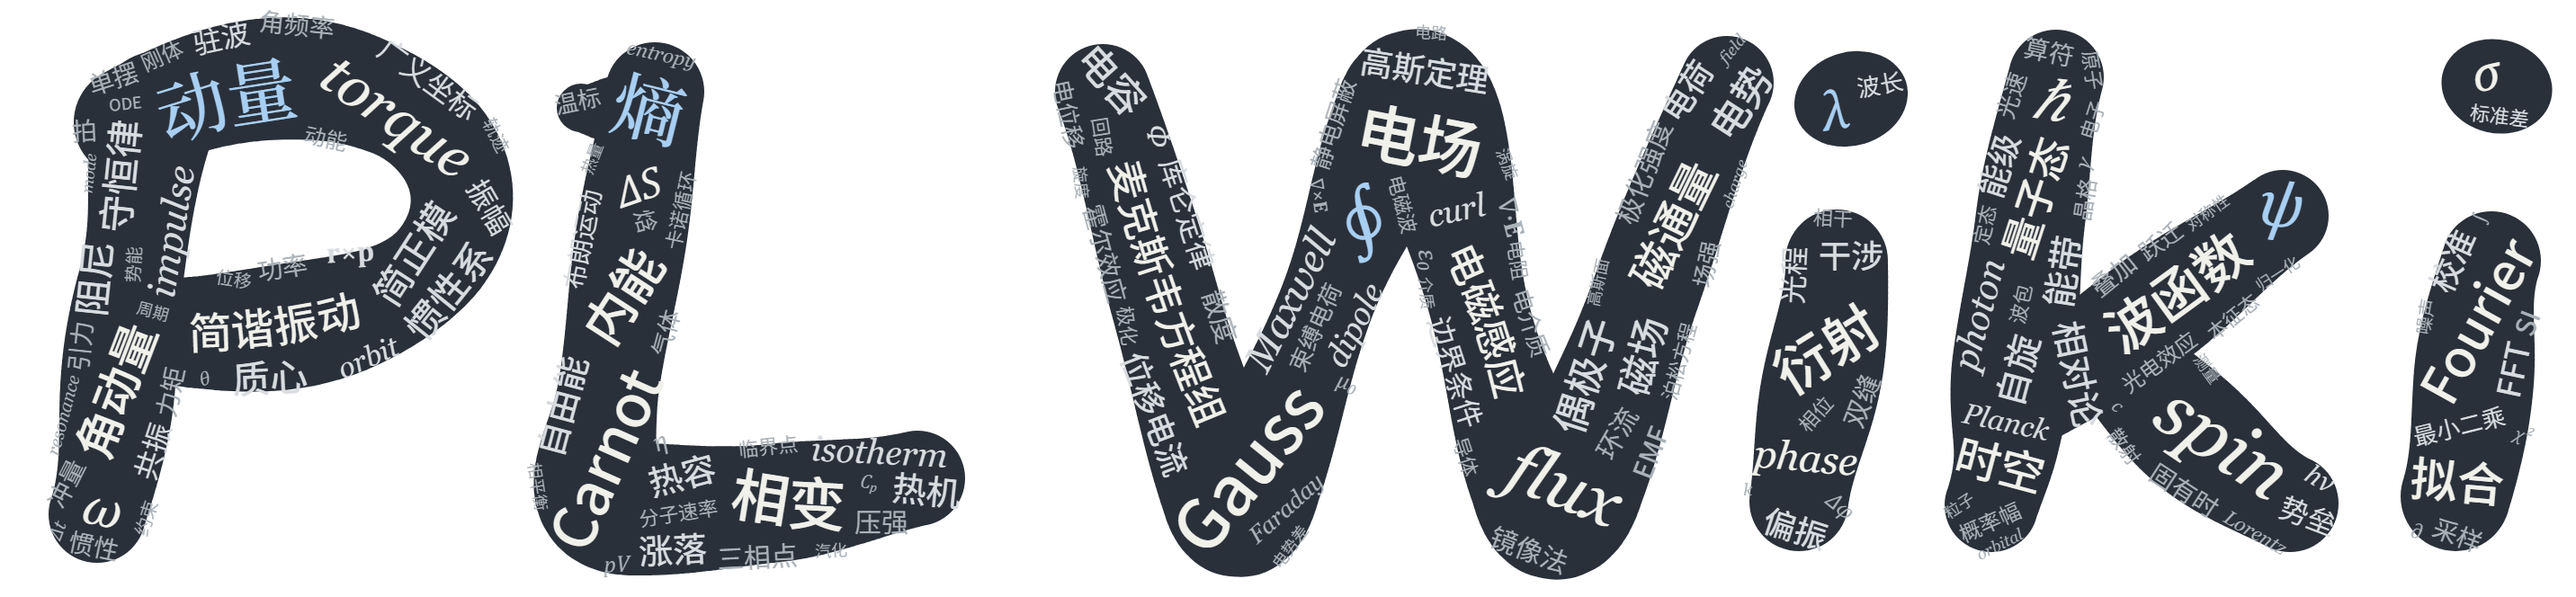
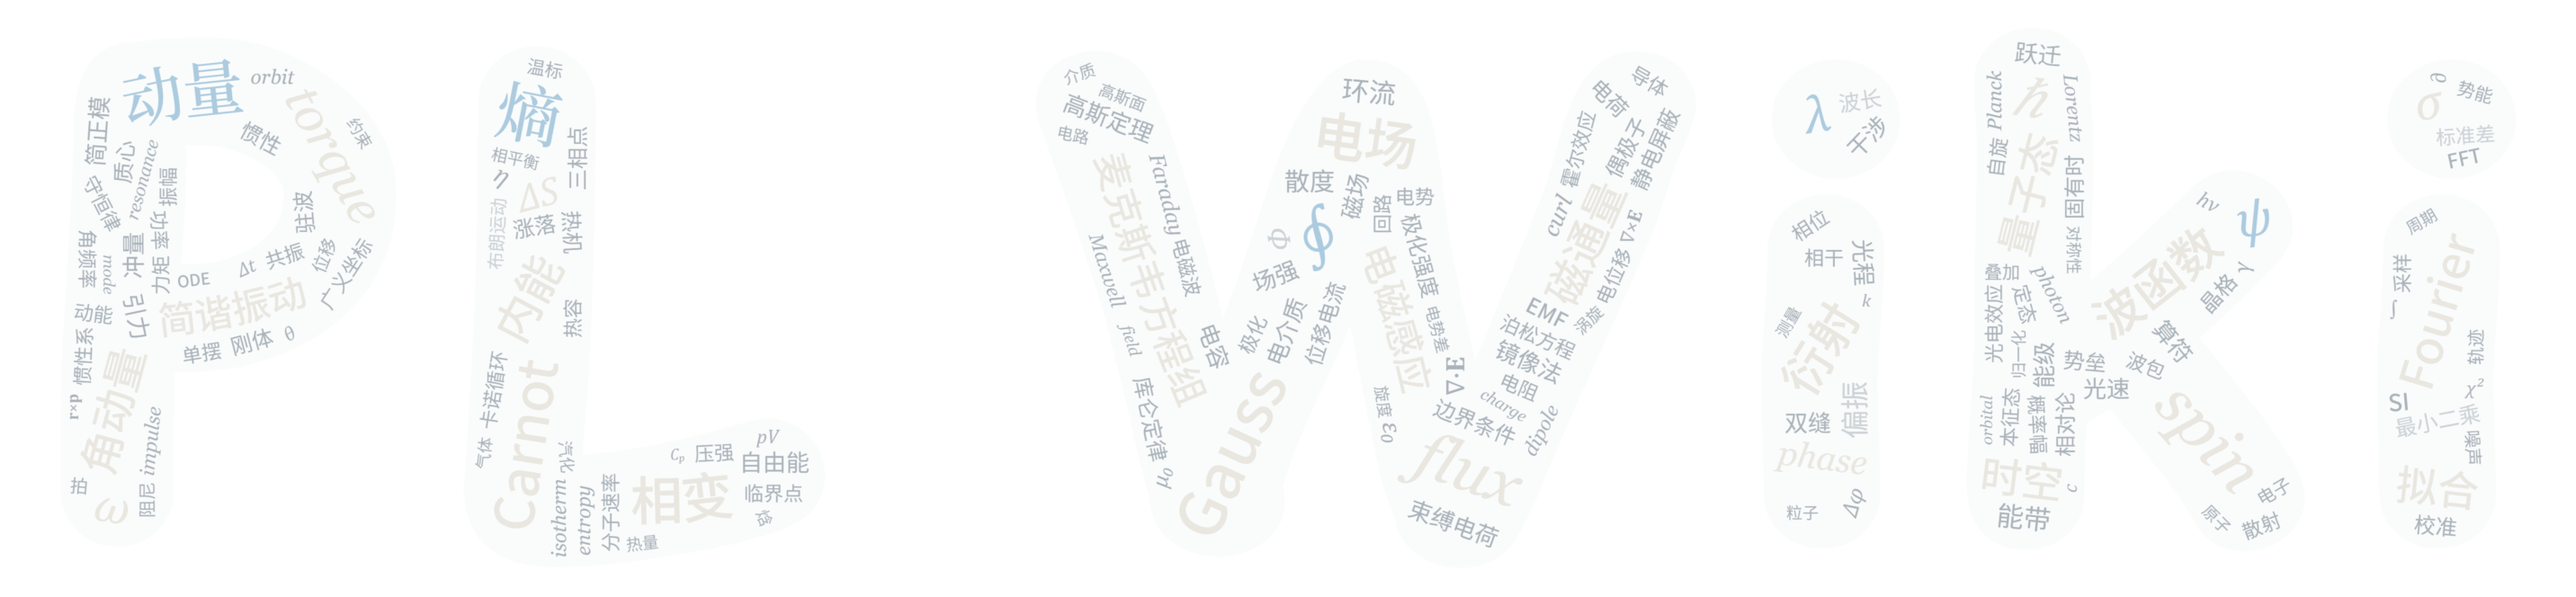
feat(docs): 更新首页，添加欢迎信息和优化图片显示

diff --git a/docs/index.md b/docs/index.md
@@ -4,8 +4,10 @@ description: Physics Learning Wiki 是面向物理爱好者与大学本科生的
 status: stable
 ---
 
+## 欢迎来到 **Physics Learning Wiki**！[![GitHub stars](https://img.shields.io/github/stars/Physics-Learning-Wiki/Physics-Learning-Wiki.svg?style=social&label=Stars)](https://github.com/Physics-Learning-Wiki/Physics-Learning-Wiki)
+
 ![物理术语和符号拼成的 PL Wiki](images/pl-wiki-word-cloud.webp#only-light){ width="2864" height="664" loading="lazy" }
-![物理术语和符号拼成的 PL Wiki](images/pl-wiki-word-cloud-dark.webp#only-dark){ width="2864" height="664" loading="lazy" }
+![物理术语和符号拼成的 PL Wiki](images/pl-wiki-word-cloud-dark.webp#only-dark){ width="2864" height="664" loading="lazy" style="background: transparent; filter: none" }
 
 这里汇集面向物理爱好者与大学本科生的物理知识、学习笔记和参考资料，内容仍在持续建设中．
 
